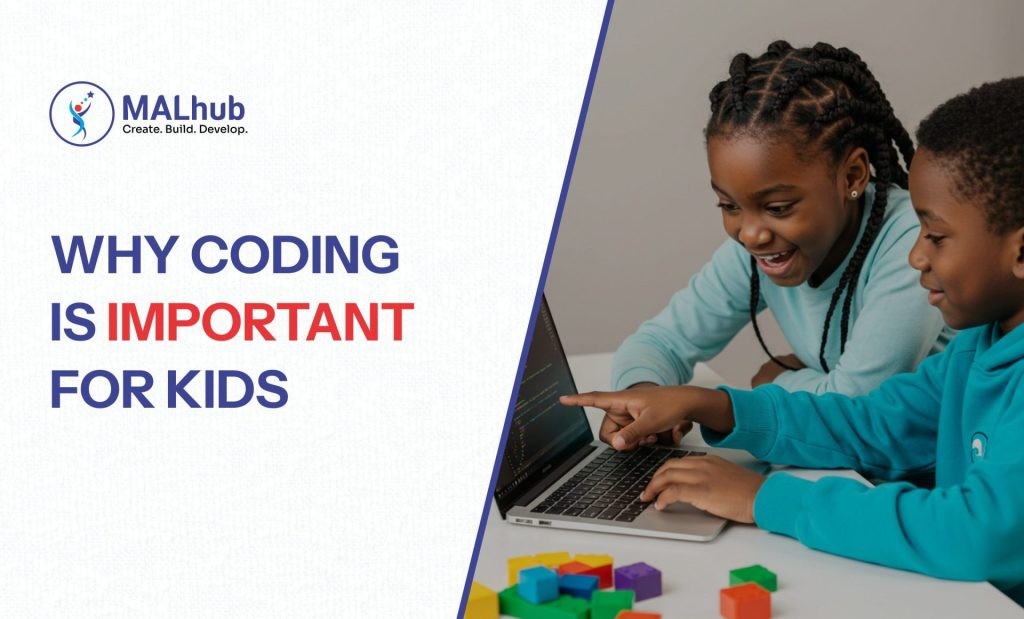
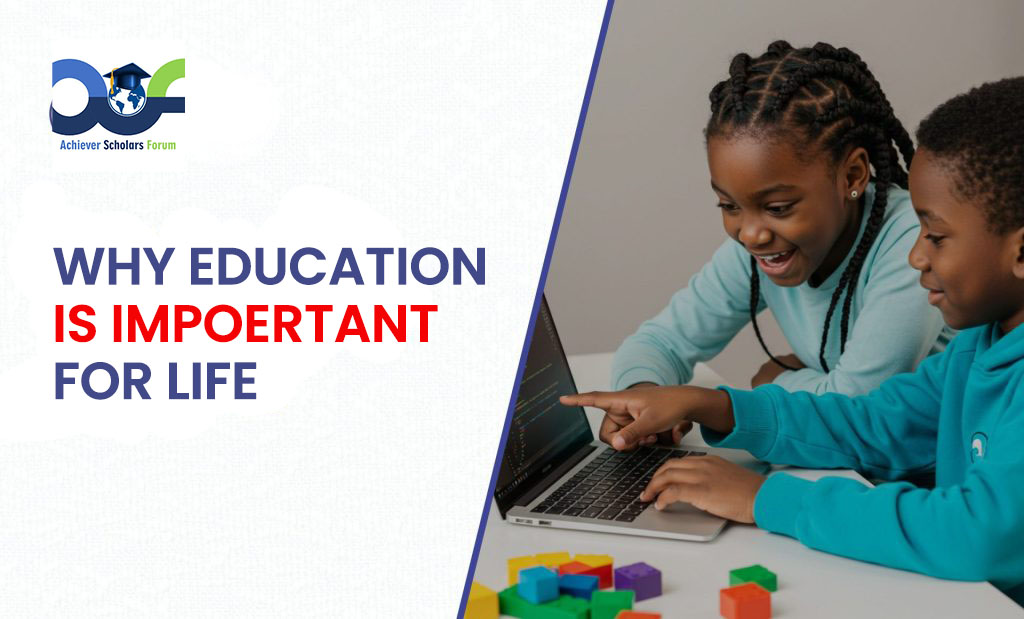
update landingpage

Changed region(s): [[0.0312, 0.3683, 0.5, 0.5525], [0.0312, 0.0921, 0.25, 0.2456], [0.0312, 0.5832, 0.2812, 0.6753]]

diff --git a/app/pages/index.vue b/app/pages/index.vue
@@ -460,7 +460,7 @@ const blog = [
   },
   {
     id: 2,
-    title: 'Why Coding Is Important for Kids',
+    title: 'Why Education Is Important in  Life',
      date:"July 29, 2025",
     description: 'Coding is more than just a useful skill; it’s a new literacy. has elevated our team’s Together, we’re unstoppable!',
    image: 'blog2.jpg',
